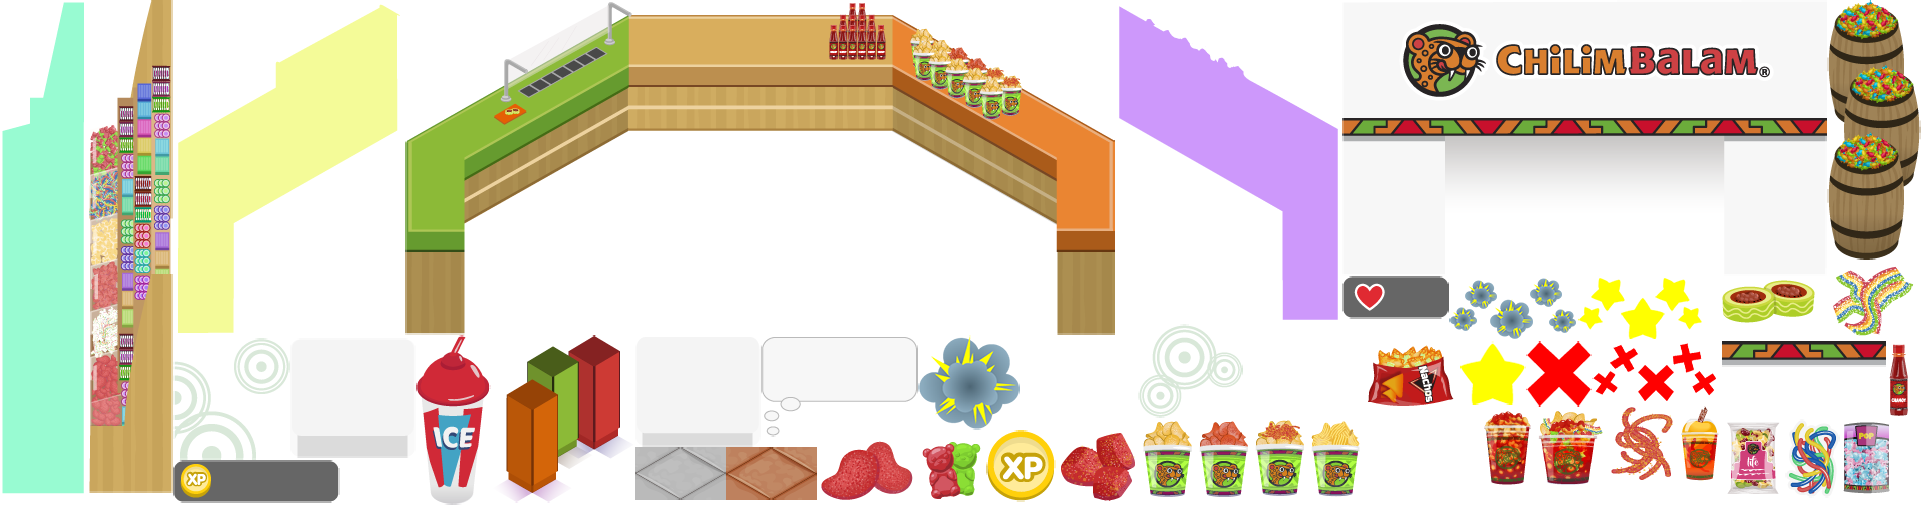
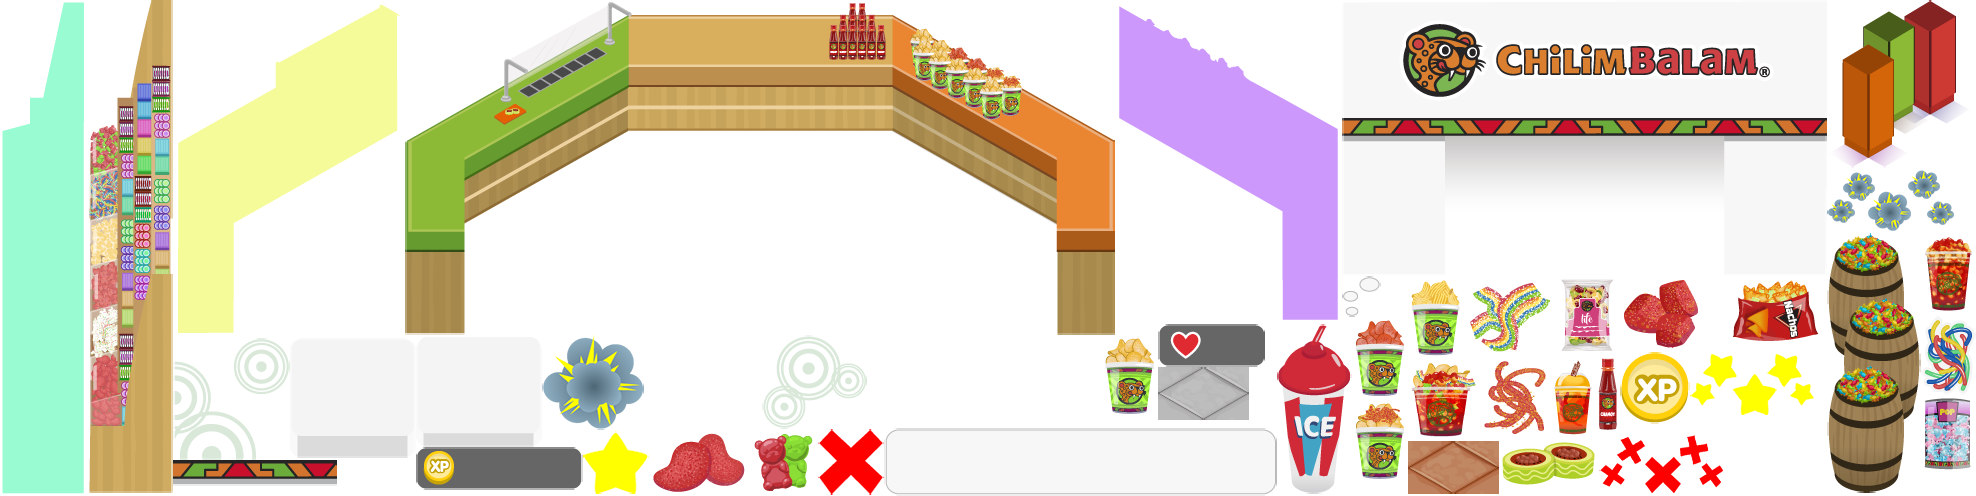
ordersUp fix

diff --git a/minigames/ordersUp/js/scenes/ordersUp.js b/minigames/ordersUp/js/scenes/ordersUp.js
@@ -47,10 +47,10 @@ var ordersUp = function(){
     var MAX_PRODUCTS_PER_TYPE = 3
     var PRODUCT_TYPES = 3
 
-    var INITIAL_DIFFICULT = 1.8
-    var DELTA_DIFFICULT = 0.1
+    var INITIAL_DIFFICULT = 3
+    var DELTA_DIFFICULT = 0.13
     var MAX_DIFFICULT = 6
-    var BOSS_DIFFICULT = 10
+    var BOSS_DIFFICULT = 9
     var BOSS_PROBABILIY = 0.3
     var PEOPLE_TO_BOSS = 5
 
@@ -61,7 +61,7 @@ var ordersUp = function(){
     var VELOCITY_PEOPLE = 1
 
     var DELTA_IN_SECUENCE = 40
-    var DELTA_IN_SECUENCE_BOSS = 25
+    var DELTA_IN_SECUENCE_BOSS = 35
 
     var NUMBER_SECUENCE_TO_CHANGE_STATION = 5
 
@@ -80,6 +80,10 @@ var ordersUp = function(){
     var PEOPLE_X_DELTA = 60
 
     var COIN_BY_BOOSS = 3
+
+    var BALLON_SCALE = 1.5
+
+    var BALLOON_TRANSITION = 100
     
     var gameIndex = 26
     var gameId = 100003
@@ -411,8 +415,8 @@ var ordersUp = function(){
                 currentPeopleArray.splice(0,1)
                 gameActive = true
                 secuencePublish = false
-                ballonGroup.scale.setTo(1,1)
-                game.add.tween(ballonGroup.scale).to({x:0,y:0},200,Phaser.Easing.linear,true)
+                ballonGroup.scale.setTo(BALLON_SCALE)
+                game.add.tween(ballonGroup.scale).to({x:0,y:0},BALLOON_TRANSITION,Phaser.Easing.linear,true)
                 for(var i = 0 ; i < secuence.length; i++){
                     secuence.children[i].visible = false
                 }
@@ -505,7 +509,7 @@ var ordersUp = function(){
             }
         }
         else{
-            if(currentPeopleArray.length>0 && ballonGroup.scale.x == 0){
+            if(currentPeopleArray.length>0 && ballonGroup.scale.x < 0.5){
                 if(currentPeopleArray[0].y > Y_PERSON_SECUENCE){
                     setSecuence(currentPeopleArray[0].isBoos)
                     secuencePublish = true
@@ -528,7 +532,7 @@ var ordersUp = function(){
         button.loadTexture("atlas.game","boton_on")
         button.line.loadTexture("atlas.game","boton_on_linea")
         button.productImage.y = 0
-        if(ballonGroup.scale.x < 0.9 || !gameActive){
+        if(ballonGroup.scale.x < BALLON_SCALE-0.1 || !gameActive){
             return
         }
 
@@ -575,8 +579,8 @@ var ordersUp = function(){
 
 
                 secuencePublish = false
-                ballonGroup.scale.setTo(1,1)
-                game.add.tween(ballonGroup.scale).to({x:0,y:0},200,Phaser.Easing.linear,true)
+                ballonGroup.scale.setTo(BALLON_SCALE)
+                game.add.tween(ballonGroup.scale).to({x:0,y:0},BALLOON_TRANSITION,Phaser.Easing.linear,true)
 
             }
             else{
@@ -716,8 +720,8 @@ var ordersUp = function(){
 
 
     function setSecuence(isBoos){
-
-        game.add.tween(ballonGroup.scale).from({x:0,y:0}).to({x:1,y:1},200,Phaser.Easing.linear,true)
+        ballonGroup.scale.setTo(0)
+        game.add.tween(ballonGroup.scale).to({x:BALLON_SCALE,y:BALLON_SCALE},BALLOON_TRANSITION,Phaser.Easing.linear,true)
 
         var difficultRounded = Math.floor(currentDifficult)
         if(isBoos){
@@ -734,7 +738,11 @@ var ordersUp = function(){
         for(var i = 0; i < difficultRounded; i++){
             currentSecuence.push(game.rnd.integerInRange(1,MAX_PRODUCTS_PER_TYPE))
         }
-
+        var scale = (difficultRounded/10)+0.05
+        if(scale < 0.3){
+            scale = 0.3
+        }
+        ballonGroup.ballon.scale.setTo(scale,1)
 
         secuence.isBoos = isBoos
         secuence.needProducts = difficultRounded
@@ -811,15 +819,6 @@ var ordersUp = function(){
         sceneGroup.add(backgroundBackFloor)
 
 
-
-        /*var peopleGroup 
-        for(var i = 0; i < PEOPLE_TYPES; i++){
-            peopleGroup = game.add.group()
-            peopleGroup.x = game.world.centerX
-            sceneGroup.add(peopleGroup)
-            peopleList.push(peopleGroup)
-        }*/
-
         peopleList = game.add.group()
         peopleList.x = game.world.centerX
         sceneGroup.add(peopleList)
@@ -867,7 +866,7 @@ var ordersUp = function(){
         tileSpriteLine.y = 116
         sceneGroup.add(tileSpriteLine)
 
-        var door = sceneGroup.create(game.world.centerX,0,"atlas.game","Entrada")
+        var door = sceneGroup.create(game.world.centerX,-2,"atlas.game","Entrada")
         door.anchor.setTo(0.5,0)
         sceneGroup.add(door)
 
@@ -879,30 +878,7 @@ var ordersUp = function(){
         circleDecoration.anchor.setTo(0.5)
 
 
-        secuence = game.add.group()
-        ballonGroup = game.add.group()
-        ballonGroup.x = game.world.centerX+60
-        ballonGroup.y = -100
-        ballonGroup.scale.setTo(0)
-
         
-
-        
-        //secuence.mask = maskSecuence
-
-        var ballonImage = ballonGroup.create(0,0,"atlas.game","globo")
-        ballonImage.anchor.setTo(0.5)
-
-        ballonGroup.add(secuence)
-        sceneGroup.add(ballonGroup)
-
-        var maskSecuence = game.add.graphics(0,0)
-        maskSecuence.beginFill(0xff0000)
-        maskSecuence.drawRect(-75,-50,150,60)
-        maskSecuence.endFill()
-        ballonGroup.add(maskSecuence)
-
-        secuence.mask = maskSecuence
 
 
         var cubeDecoration = sceneGroup.create(70,game.world.centerY-150,"atlas.game","stands")
@@ -911,11 +887,6 @@ var ordersUp = function(){
         var barrelDecoration = sceneGroup.create(50,game.world.centerY+50,"atlas.game","barriles")
         barrelDecoration.anchor.setTo(0.5)
 
-
-
-       
-
-        
         var granel = sceneGroup.create(game.world.width,game.world.centerY-50,"atlas.game","barra_granel")
         granel.anchor.setTo(1,0.5)
         
@@ -1016,6 +987,33 @@ var ordersUp = function(){
         var ice = sceneGroup.create(game.world.width,game.world.centerY+140,"atlas.game","ice")
         ice.anchor.setTo(1,0.5)
         
+
+        secuence = game.add.group()
+        ballonGroup = game.add.group()
+        ballonGroup.x = game.world.centerX
+        ballonGroup.y = -100
+        ballonGroup.scale.setTo(0)
+
+
+        var ballonDots = ballonGroup.create(0,30,"atlas.game","globitos")
+        ballonDots.anchor.setTo(0.5)
+
+        var ballonImage = ballonGroup.create(0,-15,"atlas.game","globo_grande")
+        ballonImage.anchor.setTo(0.5)
+        ballonImage.scale.setTo(0.4,1)
+
+        ballonGroup.ballon = ballonImage
+
+        ballonGroup.add(secuence)
+        sceneGroup.add(ballonGroup)
+
+        var maskSecuence = game.add.graphics(0,0)
+        maskSecuence.beginFill(0xff0000)
+        maskSecuence.drawRect(-200,-50,400,60)
+        maskSecuence.endFill()
+        ballonGroup.add(maskSecuence)
+
+        secuence.mask = maskSecuence
 
     }
 
